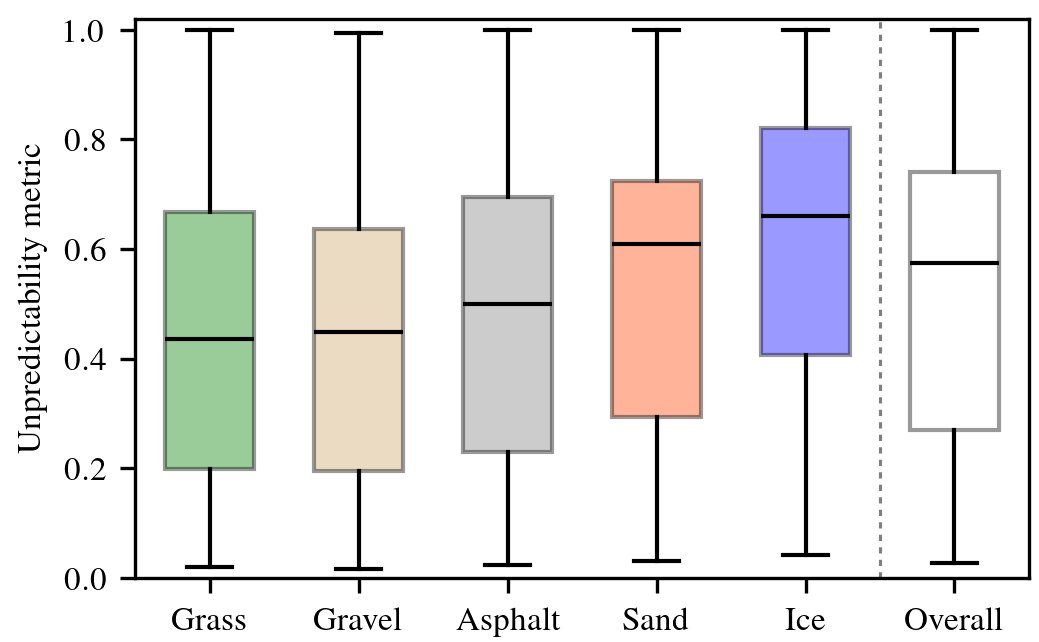
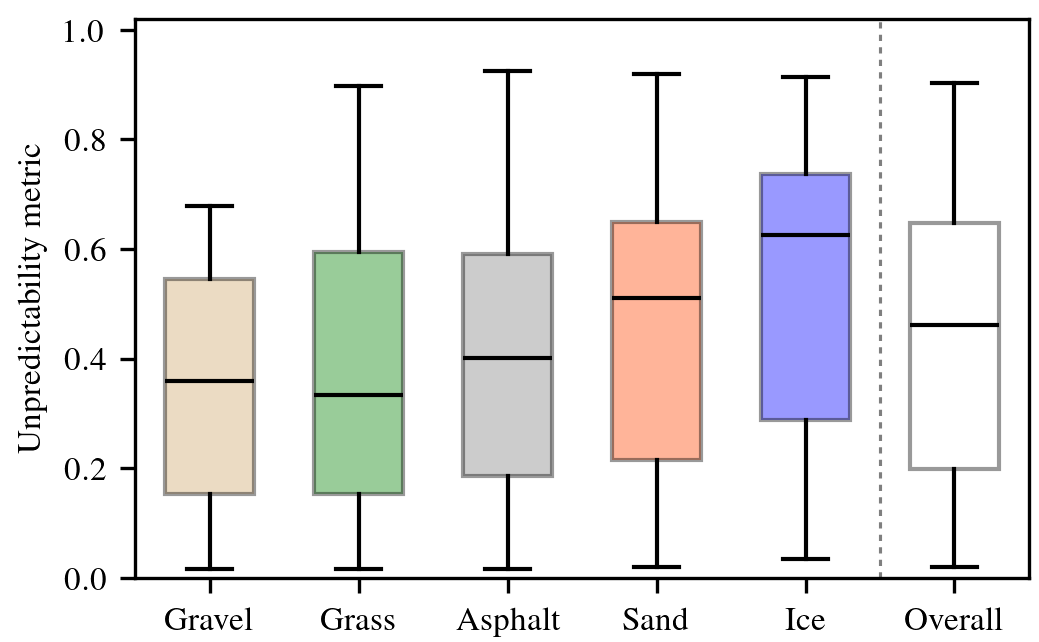
correct filtering for steady-state value of the metric boxplot

diff --git a/drive/model_training/data_utils/metric_energy_boxplot.py b/drive/model_training/data_utils/metric_energy_boxplot.py
@@ -246,6 +246,11 @@ def boxplot_all_terrain_warthog_robot(df,alpha_param=0.2,robot="warthog",
     # list_array_rot, list_color_rot,list_terrain_reordered_rot = reorder_boxplot(list_array_rot, list_color,list_terrain)
     # list_array_transl, list_color_transl,list_terrain_reordered_transl = reorder_boxplot(list_array_transl, list_color,list_terrain)
 
+    for _list in [list_array_total, list_color_total, list_terrain_reordered_total]:
+        tmp = _list[0]
+        _list[0] = _list[1]
+        _list[1] = tmp
+    
     # 
     # Add the overall 
     list_array_total.append([item for sublist in list_array_total for item in sublist])
@@ -362,7 +367,7 @@ def boxplot_all_terrain_warthog_robot(df,alpha_param=0.2,robot="warthog",
     # handles[-1] = overall
     # fig.legend(handles,labels,bbox_to_anchor= (0.78,0.125),ncols=3)
     #fig.tight_layout()
-    tick_labels = ['Grass', 'Gravel', 'Asphalt', 'Sand', 'Ice', 'Overall']
+    tick_labels = ['Gravel', 'Grass', 'Asphalt', 'Sand', 'Ice', 'Overall']
     ticks = [0.5, 1.0, 1.5, 2.0, 2.5, 3.0]
     axs.set_xticks(ticks, tick_labels)
     #fig.tight_layout()
@@ -383,16 +388,76 @@ def print_color_list():
         print("Hex color code: ", mpl.colors.to_hex(color_dict[key], keep_alpha=False))
 
 
+def keep_only_steady_state_and_filter(df,size_col,nb_steady_state,yaw_filter =4.0,
+                                    keep_only_steady_state = True,
+                                    filter_data = True,col_to_filter_with="cmd_body_yaw_vel"):
+    
+    nb_values = df.shape[0]
+    # Create the filter 
+    cmd_yaw = df[col_to_filter_with].to_numpy().reshape((nb_values//size_col, size_col))
+
+    cmd_yaw = np.median(cmd_yaw,axis=1)
+    
+    cmd_yaw_filter = np.array([cmd_yaw]*size_col).T
+    filter = cmd_yaw_filter <=yaw_filter
+    
+    dico = {}
+    print(df.shape)
+    for col in list(df.columns):
+
+        
+
+        
+
+        masked = np.zeros((nb_values,1))
+        
+        masked_reshape = masked.reshape((nb_values//size_col, size_col))
+
+        
+        masked_reshape[:,-nb_steady_state:] = np.ones((masked_reshape.shape[0],nb_steady_state))
+
+        data_matrix = df[col].to_numpy().reshape((nb_values//size_col, size_col))
+        
+        if keep_only_steady_state:
+            mask = (masked_reshape ==1)
+
+            if filter_data:
+
+                mask = mask&filter
+            
+        else:
+            
+            mask = np.ones_like(masked_reshape) == 1.0
+
+            if filter_data:
+                mask = filter
+
+        final_df = data_matrix[mask]
+
+        dico[col] = np.ravel(final_df)
+
+    print(pd.DataFrame.from_dict(dico).shape)
+    return pd.DataFrame.from_dict(dico)
+
+
 if __name__ =="__main__":
     
     path_to_raw_result = "drive_datasets/results_multiple_terrain_dataframe/metric/warthog_metric_cmd_raw_slope_metric.csv"
     df_warthog = pd.read_csv(path_to_raw_result)
+    
     path_to_raw_result = "drive_datasets/results_multiple_terrain_dataframe/metric/husky_metric_cmd_raw_slope_metric.csv"
     df_husky = pd.read_csv(path_to_raw_result)
     #df_husky = df_husky.drop()
     df = pd.concat([df_warthog,df_husky],axis=0)
-    filtered_df = df_warthog.loc[(np.abs(df_warthog["cmd_body_yaw_vel"]) <= 4.0)]
 
+    #filtered_df = df_warthog[(np.abs(df_warthog["cmd_body_yaw_vel"]) < 4.0)]
+
+    #filtered_df = keep_only_steady_state_and_filter(df_warthog,119,39)
+
+    filtered_df = keep_only_steady_state_and_filter(df_warthog,119,39,yaw_filter =4.0,
+                                    keep_only_steady_state = True,
+                                    filter_data = True)
+    
     #df_test = pd.read_pickle("drive_datasets/results_multiple_terrain_dataframe/filtered_cleared_path_warthog_following_robot_param_all_terrain_steady_state_dataset.pkl")
     median_easy = np.median(np.abs(filtered_df.total_energy_metric.loc[filtered_df["terrain"] == ("asphalt" or "gravel" or "grass")]))
     median_ice = np.median(np.abs(filtered_df.total_energy_metric.loc[filtered_df["terrain"] == "ice"]))
@@ -401,7 +466,7 @@ if __name__ =="__main__":
     print("overall: ", median_ice/median_overall)
     
     #boxplot(df)
-    boxplot_all_terrain_warthog_robot(df)
+    boxplot_all_terrain_warthog_robot(filtered_df)
     
     #print(df.columns)
     #plot_scatter_metric(df)

diff --git a/drive/model_training/data_utils/slip_boxplot.py b/drive/model_training/data_utils/slip_boxplot.py
@@ -7,6 +7,7 @@ import matplotlib as mpl
 import matplotlib.patches as mpatches
 import sys
 import os
+from metric_energy_boxplot import keep_only_steady_state_and_filter
 project_root = os.path.abspath("/home/william/workspaces/drive_ws/src/DRIVE/")
 if project_root not in sys.path:
     sys.path.append(project_root)
@@ -101,14 +102,22 @@ def boxplot_all_terrain_warthog_robot(df,alpha_param=0.3,robot="warthog",
     list_array_rot, list_color_rot,list_terrain_reordered_rot = reorder_boxplot(list_array_rot, list_color,list_terrain)
     
     for _list in [list_array_x, list_color_x, list_terrain_reordered_x]:
-        tmp = _list[1]
-        _list[1] = _list[2]
+        tmp = _list[0]
+        _list[0] = _list[2]
         _list[2] = tmp
     
-    for _list in [list_array_y, list_color_y, list_terrain_reordered_y]:
+    #for _list in [list_array_y, list_color_y, list_terrain_reordered_y]:
+    #    tmp = _list[0]
+    #    _list[0] = _list[1]
+    #    _list[1] = tmp
+    
+    for _list in [list_array_rot, list_color_rot, list_terrain_reordered_rot]:
         tmp = _list[0]
-        _list[0] = _list[1]
+        tmp2 = _list[1]
+        _list[0] = _list[2]
         _list[1] = tmp
+        _list[2] = tmp2
+
     #Add the overall 
     list_array_x.append([item for sublist in list_array_x for item in sublist])
     list_array_y.append([item for sublist in list_array_y for item in sublist])
@@ -173,7 +182,7 @@ def boxplot_all_terrain_warthog_robot(df,alpha_param=0.3,robot="warthog",
     axs[0].set_ylabel("Longitudinal slip (m/s)")
     axs[1].set_ylabel("Lateral slip (m/s)")
     axs[2].set_ylabel("Angular slip (rad/s)")
-    tick_labels = ['Gravel', 'Asphalt', 'Grass', 'Sand', 'Ice', 'Overall']
+    tick_labels = ['Asphalt', 'Grass', 'Gravel', 'Sand', 'Ice', 'Overall']
     ticks = [0.5, 1.0, 1.5, 2.0, 2.5, 3.0]
     axs[2].set_xticks(ticks, tick_labels)
 
@@ -196,15 +205,22 @@ if __name__ =="__main__":
     
     path_to_raw_result = "drive_datasets/results_multiple_terrain_dataframe/filtered_cleared_path_warthog_following_robot_param_all_terrain_steady_state_dataset.pkl"
     df_warthog = pd.read_pickle(path_to_raw_result)
-    filtered_df = df_warthog.loc[(np.abs(df_warthog["cmd_body_yaw_lwmean"]) <= 4.0)]
+
+    #filtered_df = keep_only_steady_state_and_filter(df_warthog,119,39,yaw_filter =4.0,
+    #                                keep_only_steady_state = True,
+    #                                filter_data = True,
+    #                                col_to_filter_with = "cmd_body_yaw_lwmean")
+    
+    filtered_df = df_warthog.loc[(np.abs(df_warthog["cmd_body_yaw_lwmean"]) <=4.0)]
     # path_to_raw_result = "drive_datasets/results_multiple_terrain_dataframe/metric/husky_metric_cmd_raw_slope_metric.csv"
     # df_husky = pd.read_csv(path_to_raw_result)
     #df_husky = df_husky.drop()
     # df = pd.concat([df_warthog,df_husky],axis=0)
-
+    #plt.hist(filtered_df.cmd_body_x_lwmean)
+    #plt.show()
     # print_column_unique_column(df_warthog)
     #boxplot(df)
-    boxplot_all_terrain_warthog_robot(df_warthog)
+    boxplot_all_terrain_warthog_robot(filtered_df)
     #boxplot_few_robot_few_terrain(df)
     #print(df.columns)
     #plot_scatter_metric(df)

diff --git a/drive/model_training/data_utils/filter_cmd_for_warthog_limit.py b/drive/model_training/data_utils/filter_cmd_for_warthog_limit.py
@@ -95,7 +95,7 @@ def scatter_diamond_displacement_graph(df_all_terrain,list_shape,subtitle=""):
         return fig 
 
 
-def reverse_engineer_clearpath_max_speed(df,robot_param,debug=False):
+def reverse_engineer_clearpath_max_speed(df,robot_param,filter_data=True,debug=False):
     
 
     
@@ -172,12 +172,14 @@ def reverse_engineer_clearpath_max_speed(df,robot_param,debug=False):
     for i in range(cmd.shape[0]):
 
         pt = Point(cmd[i,:])
-
-        if shapely.within(pt, union_res) or shapely.touches(pt,union_res):
-            filter.append(True)
+        if filter_data:
+            if shapely.within(pt, union_res) or shapely.touches(pt,union_res):
+                filter.append(True)
+            else:
+                filter.append(False)
         else:
-            filter.append(False)
-    
+            filter.append(True)
+
     
     df["is_within_software_limits"] = filter
     
@@ -313,7 +315,7 @@ def generate_wheel_frame_domain_polygon(df,dict_terrain,robot_param,debug=False)
 
 
 
-def filter_all_results_clearpath(path_to_df,robot,debug=False):
+def filter_all_results_clearpath(path_to_df,robot,filter_data=False,debug=False):
 
 
     with open(PATH_ROBOT_CONFIG_FILE) as file:
@@ -345,7 +347,7 @@ def filter_all_results_clearpath(path_to_df,robot,debug=False):
 
     for terrain in list_terrain: 
         
-        new_df,min_ang_speed_limmit,min_lin_speed_limmit = reverse_engineer_clearpath_max_speed(df.loc[df.terrain== terrain],robot_param,debug=debug)
+        new_df,min_ang_speed_limmit,min_lin_speed_limmit = reverse_engineer_clearpath_max_speed(df.loc[df.terrain== terrain],robot_param,filter_data=filter_data,debug=debug)
         
         dico_temp = {"min_ang_speed_limmit":min_ang_speed_limmit,
                     "min_lin_speed_limmit":min_lin_speed_limmit,
@@ -401,15 +403,11 @@ def extract_wheel_and_clearpath_limit_by_terrain(path_to_df,robot,dict_terrain):
     print("\n"*3,path_to_save,"\n"*3)
 
 
-    
-
-
-
-    
 if __name__=="__main__":
     
+    filter_data = True
     path = "drive_datasets/results_multiple_terrain_dataframe/all_terrain_steady_state_dataset.pkl"
-    df_filtered = filter_all_results_clearpath(path,"warthog",debug=True)
+    df_filtered = filter_all_results_clearpath(path,"warthog",debug=True,filter_data=filter_data)
 
     df_test = pd.read_pickle(path)
     
@@ -427,9 +425,3 @@ if __name__=="__main__":
     
     path = "drive_datasets/results_multiple_terrain_dataframe/all_terrain_slip_dataset.pkl"
     filter_all_results_clearpath(path,"husky",debug=False)
-
-    
-
-    
-
-    print()

diff --git a/drive/model_training/data_utils/metric_energy.py b/drive/model_training/data_utils/metric_energy.py
@@ -734,7 +734,7 @@ class SlopeMetric(KineticEnergyMetricWheelEncoder):
         compensation_to_use = self.translationnal_compensation_array
         if self.steady_state_only:
             x = x[:,-n_steady_state:]
-            y = y[:,-n_steady_state:]
+            y = y[:,-(n_steady_state):]
 
             
         if self.mean_the_steady_state:
@@ -747,6 +747,7 @@ class SlopeMetric(KineticEnergyMetricWheelEncoder):
         #x_masked = x[mask]
         #y_masked = y[mask]
         if compensation_on:
+            y = y
             y_masked = y
 
         else:
@@ -767,6 +768,8 @@ class SlopeMetric(KineticEnergyMetricWheelEncoder):
         metric_mean = np.median(metric_raw) # 
         std_metric = np.std(metric_raw)
         x_95 = np.percentile(x_masked,95)
+
+        
         return m_slope,mean_slope,std_slope,metric_mean,std_metric, metric_raw,x_95,y_masked,x_masked
 
     def filter_contamination(self,df_energy_cmd,terrain,treshold):
@@ -817,9 +820,13 @@ class SlopeMetric(KineticEnergyMetricWheelEncoder):
                                                                                                 n_steady_state = n_steady_state,
                                                                                                 compensation_on=True)
                 
+                    if self.steady_state_only:
+                        y_maksed = gt_energy[:,-(n_steady_state-1):]
+                    else:
+                        y_maksed = gt_energy[:,1:]
                     # makes sure tha the total energy saved is the real energy metric and not the affected one.
                     
-                    y_maksed = gt_energy[:,1:]
+                    
                 else:
                     m_slope,mean_slope,std_slope,metric,std_metric, metric_raw,x_95,y_maksed,x_masked = self.compute_average_slope(idd_energy,gt_energy ,
                                                                                             joules_treshold=self.joule_treshold,
@@ -894,6 +901,8 @@ class SlopeMetric(KineticEnergyMetricWheelEncoder):
         sign_to_classify = np.where(sign_to_classify <=0, np.zeros_like(sign_to_classify), sign_to_classify)
         sign_to_classify = np.where(np.isnan(sign_to_classify)==True, np.zeros_like(sign_to_classify),sign_to_classify)
         self.rotationnal_compensation_array = sign_to_classify
+        
+        
         self.translationnal_compensation_array = translationnal_compensation_array
 
     

diff --git a/drive/model_training/data_utils/extract_area_changes.py b/drive/model_training/data_utils/extract_area_changes.py
@@ -94,7 +94,8 @@ def plot_cmd_on_losange(path_to_cmd_vel,df,label,color_ref="grey"):
 
 if __name__ == "__main__":
 
-    steady_state_path = "drive_datasets/data/will/filtered_cleared_path_warthog_following_robot_param_all_terrain_steady_state_dataset.pkl"
+    steady_state_path = "drive_datasets/results_multiple_terrain_dataframe/filtered_cleared_path_husky_following_robot_param_all_terrain_steady_state_dataset.pkl"
+
     df_diamond = pd.read_pickle(steady_state_path)
     color_dict = {"asphalt":"grey", "ice":"blue","gravel":"brown","grass":"green","tile":"pink","boreal":"lightgray"}
     terrain_list_warthog = ["asphalt", "grass", "gravel", "sand", "ice"]
@@ -105,7 +106,7 @@ if __name__ == "__main__":
         df_terrain = df_warthog.loc[df_warthog["terrain"]==i]
         # print_column_unique_column(df_warthog)
 
-        path_to_cmd_vel_csv = "drive_datasets/data/will/combined_output.csv"
+        path_to_cmd_vel_csv = "drive_datasets/results_multiple_terrain_dataframe/area_test/combined_output.csv"
 
         label = ["CMD space sampled by drive", "steady_state speed on gravel", "CMD in snow"]
         plot_cmd_on_losange(path_to_cmd_vel_csv,df_terrain,label,color_ref="grey")

diff --git a/drive/model_training/data_utils/update_drive_inventory.py b/drive/model_training/data_utils/update_drive_inventory.py
@@ -367,7 +367,7 @@ if __name__=="__main__":
     result_folder= update_config["result_folder"]
     drive_inventory_names = update_config["drive_inventory_names"]
     
-    produce_video = True
+    produce_video = False
     dico_2_do = update_yaml_file(result_folder=result_folder, drive_workspace=drive_workspace, drive_inventory_names = drive_inventory_names, produce_video = produce_video)
     dico_2_do.pop("last_update_time")
     list_dataframe = list(dico_2_do.values()) 

diff --git a/drive/model_training/data_utils/slip_dataset_parser.py b/drive/model_training/data_utils/slip_dataset_parser.py
@@ -958,7 +958,7 @@ if __name__ =="__main__":
 
     path_2_exp = pathlib.Path("drive_datasets/data/warthog/wheels/ice/warthog_wheels_ice/model_training_results/offline")
 
-    data_parser = SlipDatasetParser(df,path_2_exp,0.3,1.08,-16.6666,16.666666,20)
+    data_parser = SlipDatasetParser(df,path_2_exp,0.3,1.08,-13.6666,13.666666,20)
 
     data = data_parser.append_slip_elements_to_dataset(compute_by_whole_step=True,debug=False,smooth=True)
 

diff --git a/drive/model_training/data_utils/read_geom.py b/drive/model_training/data_utils/read_geom.py
@@ -1,0 +1,15 @@
+import shapely
+import matplotlib.pyplot as plt
+import pandas
+import yaml 
+import pickle
+path_to_save = "drive_datasets/results_multiple_terrain_dataframe/warthog_geom_limits_by_terrain_for_filtered_cleared_path_warthog_following_robot_param_all_terrain_steady_state_dataset.pkl"
+
+
+
+with open(path_to_save, 'rb') as file:
+    data = pickle.load(file)
+    
+
+print(data.keys())
+

diff --git a/drive/model_training/data_utils/test.py b/drive/model_training/data_utils/test.py
@@ -82,4 +82,7 @@ def iter_scatter(df):
         fig.savefig(PATH_TO_SAVE+f"/{i}_{terrain[i]}.png")
         plt.close("all")
         
-iter_scatter(df)
+#iter_scatter(df)
+
+
+
